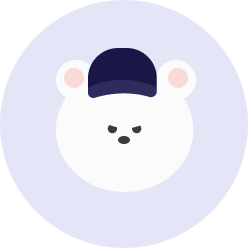
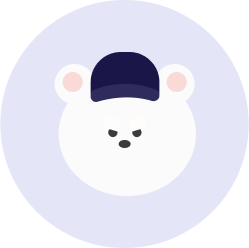
feat : 이미지 변경 & 색 추가

Changed region(s): [[0.254, 0.1694, 0.6774, 0.4234], [0.4234, 0.5081, 0.5927, 0.621], [0.6774, 0.254, 0.7621, 0.3669]]

diff --git a/app/signup/myTeam.tsx b/app/signup/myTeam.tsx
@@ -1,4 +1,5 @@
 import Button from "@/components/ui/button/Button";
+import { Layout } from "@/components/ui/layout/Layout";
 import { baseballTeams } from "@/types/team";
 import { useState } from "react";
 import { View, Text, Image, StyleSheet, TouchableOpacity } from "react-native";
@@ -10,25 +11,36 @@ export default function SignupMyTeamScreen() {
     setMyTeam(team);
   };
 
-  const isSelect = (team: string) => {
-    return myTeam === team ? "selected" : "normal";
-  };
-
   return (
-    <View style={{ flex: 1, justifyContent: "center", alignItems: "center" }}>
-      <Text>당신의 최애팀을 선택해주세요.</Text>
+    <Layout>
+      <View style={styles.title_container}>
+        <Layout.Title>당신의 최애팀을 선택해주세요.</Layout.Title>
+        <Layout.TextM color="#B3B6B6">한 팀만 선택해주세요.</Layout.TextM>
+      </View>
       <View style={styles.container}>
-        {baseballTeams.map((team) => (
+        {baseballTeams.map((team, index) => (
           <TouchableOpacity
             onPress={() => onClick(team.key)}
             key={team.key}
             activeOpacity={1}
-            style={[styles.team]}
+            style={[
+              styles.team,
+              index >= Math.floor(baseballTeams.length / 3) * 3
+                ? styles.lastRowItem
+                : {},
+            ]}
           >
-            <Image
-              source={team.character}
-              style={[styles.teamImage, styles[isSelect(team.key)]]}
-            />
+            {/* 기본 팀 이미지 */}
+            <Image source={team.character} style={styles.teamImage} />
+
+            {/* 선택된 경우 오버레이 이미지 추가 */}
+            {myTeam === team.key && (
+              <Image
+                source={require("@/assets/images/character/selected.png")}
+                style={styles.overlayImage}
+              />
+            )}
+
             <Text>{team.name}</Text>
           </TouchableOpacity>
         ))}
@@ -36,32 +48,47 @@ export default function SignupMyTeamScreen() {
       <Button position="bottom" onPress={() => {}}>
         다음으로
       </Button>
-    </View>
+    </Layout>
   );
 }
 
 const styles = StyleSheet.create({
+  title_container: {
+    height: 56,
+    display: "flex",
+    justifyContent: "center",
+    alignItems: "center",
+    flexDirection: "column",
+    gap: 8,
+    backgroundColor: "yellow",
+  },
   container: {
     flexDirection: "row",
     flexWrap: "wrap",
-    justifyContent: "flex-start",
+    justifyContent: "center",
+    marginTop: 20,
+    padding: 20,
+    gap: 20,
   },
   team: {
-    margin: 10,
     alignItems: "center",
-    width: 100,
-    display: "flex",
     justifyContent: "center",
-    gap: 10,
+    width: 90,
+    position: "relative",
   },
+  lastRowItem: {
+    alignSelf: "flex-start", // 마지막 줄 왼쪽 정렬
+  },
+
   teamImage: {
-    width: 50,
-    height: 50,
+    width: 60,
+    height: 60,
   },
-  selected: {
-    borderColor: "red",
-    borderWidth: 2,
-    borderRadius: 25,
+  overlayImage: {
+    width: 60,
+    height: 60,
+    position: "absolute", // 기존 이미지 위에 배치
+    top: 0,
+    left: 15,
   },
-  normal: {},
 });

diff --git a/components/ui/button/LoginButton.tsx b/components/ui/button/LoginButton.tsx
@@ -1,5 +1,6 @@
+import { theme } from "@/constants/theme";
 import React from "react";
-import { TouchableOpacity, Text, StyleSheet } from "react-native";
+import { TouchableOpacity, Text, StyleSheet, Image } from "react-native";
 
 const LoginButton = ({
   onPress,
@@ -8,8 +9,15 @@ const LoginButton = ({
   onPress: () => void;
   type?: "kakao" | "google" | "apple";
 }) => {
+  const logos = {
+    kakao: require("@/assets/images/button/logo_kakao.png"),
+    apple: require("@/assets/images/button/logo_apple.png"),
+    google: require("@/assets/images/button/logo_google.png"),
+  };
+
   return (
     <TouchableOpacity style={[styles.common, styles[type]]} onPress={onPress}>
+      <Image style={styles.logo} source={logos[type]} />
       <Text style={[textStyles.common, textStyles[type]]}>
         {type} 으로 로그인
       </Text>
@@ -20,32 +28,42 @@ const LoginButton = ({
 const styles = StyleSheet.create({
   common: {
     paddingVertical: 12,
-    paddingHorizontal: 24,
     width: "90%",
     borderRadius: 5,
+    display: "flex",
+    flexDirection: "row",
+    justifyContent: "flex-start",
+    gap: 10,
     alignItems: "center",
-    justifyContent: "center",
+  },
+  logo: {
+    width: 35,
+    height: 35,
+    marginLeft: 10,
   },
   kakao: {
-    backgroundColor: "#FEE500", // 카카오 버튼 색상
-  },
-  google: {
-    backgroundColor: "#4285F4", // 구글 버튼 색상
+    backgroundColor: "#FAE366", // 카카오 버튼 색상
   },
   apple: {
-    backgroundColor: "#000000", // 애플 버튼 색상
+    backgroundColor: theme.color.black,
+  },
+  google: {
+    backgroundColor: theme.color.gray50,
   },
 });
 const textStyles = StyleSheet.create({
-  common: { fontSize: 16, fontWeight: "bold" },
-  kakao: {
-    color: "#000000",
+  common: {
+    fontSize: 16,
+    fontWeight: "bold",
   },
-  google: {
-    color: "#fff",
+  kakao: {
+    color: theme.color.black,
   },
   apple: {
-    color: "#fff",
+    color: theme.color.white,
+  },
+  google: {
+    color: theme.color.black,
   },
 });
 

diff --git a/types/team.ts b/types/team.ts
@@ -6,7 +6,7 @@ export interface MyTeam {
 export const baseballTeams = [
   {
     name: "롯데 자이언츠",
-    character: require("@/assets/images/character/tigers.png"),
+    character: require("@/assets/images/character/giants.png"),
     key: "giants",
   },
   {
@@ -16,7 +16,7 @@ export const baseballTeams = [
   },
   {
     name: "LG 트윈스",
-    character: require("@/assets/images/character/tigers.png"),
+    character: require("@/assets/images/character/twins.png"),
     key: "twins",
   },
   {
@@ -31,27 +31,27 @@ export const baseballTeams = [
   },
   {
     name: "키움 히어로즈",
-    character: require("@/assets/images/character/bears.png"),
+    character: require("@/assets/images/character/heros.png"),
     key: "heroes",
   },
   {
     name: "한화 이글스",
-    character: require("@/assets/images/character/lions.png"),
+    character: require("@/assets/images/character/eagles.png"),
     key: "eagles",
   },
   {
-    name: "SK 와이번스",
-    character: require("@/assets/images/character/tigers.png"),
-    key: "wyverns",
+    name: "SSG 랜더스",
+    character: require("@/assets/images/character/landers.png"),
+    key: "landers",
   },
   {
     name: "NC 다이노스",
-    character: require("@/assets/images/character/bears.png"),
+    character: require("@/assets/images/character/dinos.png"),
     key: "dinos",
   },
   {
     name: "KT 위즈",
-    character: require("@/assets/images/character/tigers.png"),
+    character: require("@/assets/images/character/wiz.png"),
     key: "wiz",
   },
 ];

diff --git a/components/ui/layout/Layout.tsx b/components/ui/layout/Layout.tsx
@@ -1,0 +1,42 @@
+import { theme } from "@/constants/theme";
+import { ReactNode } from "react";
+import { StyleSheet, Text, View } from "react-native";
+
+export const Layout = ({ children }: { children: ReactNode }) => {
+  return <View style={styles.container}>{children}</View>;
+};
+
+Layout.Title = ({ children }: { children: ReactNode }) => {
+  return <Text style={styles.Title}>{children}</Text>;
+};
+
+Layout.TextM = ({
+  children,
+  color = theme.color.black,
+}: {
+  children: ReactNode;
+  color?: string;
+}) => {
+  return <Text style={{ ...styles.TextM, color }}>{children}</Text>;
+};
+
+const styles = StyleSheet.create({
+  container: {
+    flex: 1,
+    justifyContent: "center",
+    alignItems: "center",
+    backgroundColor: theme.color.white,
+  },
+  Title: {
+    fontSize: 22,
+    fontWeight: 700,
+    lineHeight: 35,
+    textAlign: "center",
+  },
+  TextM: {
+    fontSize: 14,
+    fontWeight: 500,
+    lineHeight: 21,
+    textAlign: "center",
+  },
+});

diff --git a/app/login/index.tsx b/app/login/index.tsx
@@ -1,4 +1,5 @@
 import LoginButton from "@/components/ui/button/LoginButton";
+import { Layout } from "@/components/ui/layout/Layout";
 import { Link, useRouter } from "expo-router";
 import { View, Text, StyleSheet } from "react-native";
 
@@ -18,7 +19,7 @@ export default function LoginScreen() {
   };
 
   return (
-    <View style={{ flex: 1, justifyContent: "center", alignItems: "center" }}>
+    <Layout>
       <Text style={styles.subTitle}>나의 야구 직관 기록 공간</Text>
       <Text style={styles.title}>승요의 일기장</Text>
       <View style={styles.container}>
@@ -44,7 +45,7 @@ export default function LoginScreen() {
       <Text style={styles.link}>
         <Link href="https://naver.com">고객센터</Link>
       </Text>
-    </View>
+    </Layout>
   );
 }
 const styles = StyleSheet.create({

diff --git a/constants/theme.ts b/constants/theme.ts
@@ -1,0 +1,36 @@
+const color = {
+  // GREEN
+  green: "#02c37d",
+  green100: "#b1ecd7",
+  green200: "#8be3c3",
+  green300: "#55d7a8",
+  green400: "#35cf97",
+  green500: "#02c37d",
+  green600: "#02b172",
+  green700: "#018a59",
+  green800: "#016b45",
+  green900: "#015235",
+
+  // GRAY
+  white: "#fcfcfc",
+  gray10: "#fbfbfb",
+  gray50: "#efefef",
+  gray100: "#dbdbdb",
+  gray200: "#cacaca",
+  gray300: "#b2b2b2",
+  gray400: "#a3a3a3",
+  gray500: "#8c8c8c",
+  gray600: "7f7f7f",
+  gray700: "#636363",
+  gray800: "#4d4d4d",
+  gray900: "#3b3b3b",
+  black: "#161717",
+
+  // RED
+  error: "#e53935",
+  warning: "#ff7f50",
+};
+
+export const theme = {
+  color,
+};
